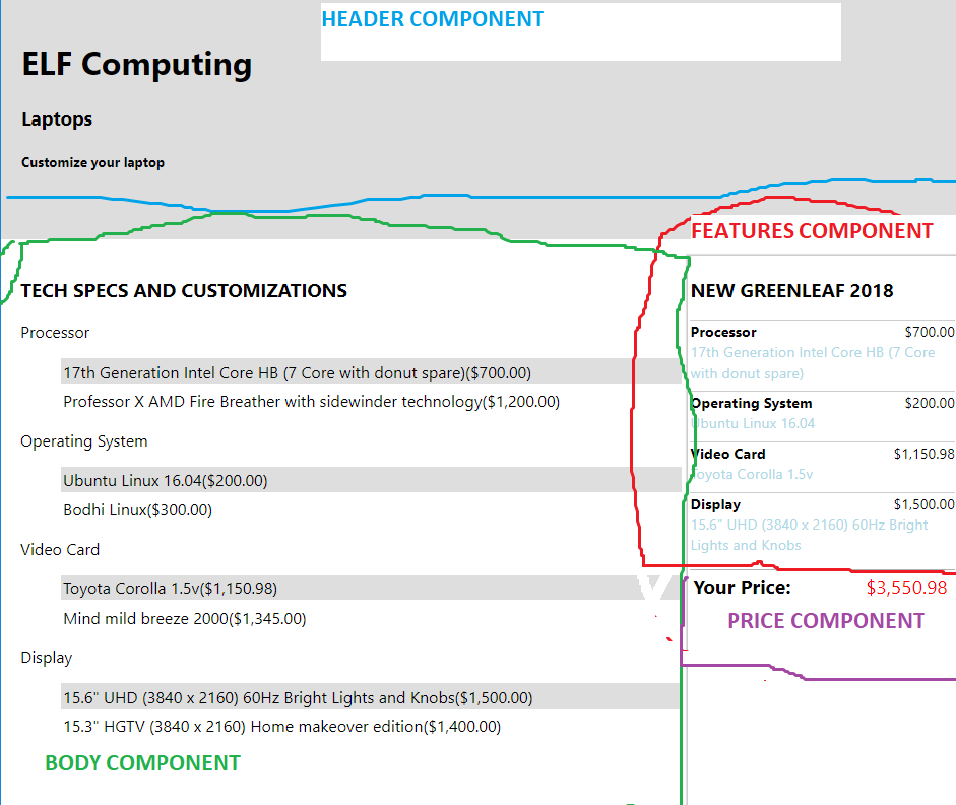
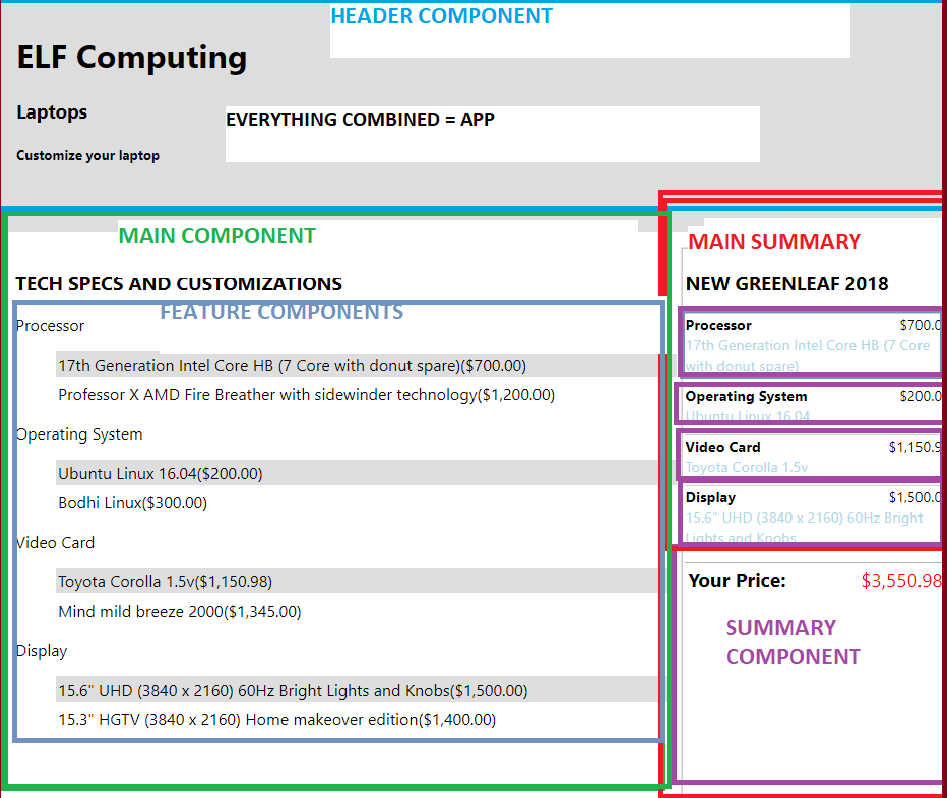
final updates

Changed region(s): [[0.0, 0.0, 1.0, 1.0]]

diff --git a/src/App.js b/src/App.js
@@ -1,5 +1,8 @@
 import React, { Component } from 'react';
 import './App.css';
+import SummaryComponent from "./SummaryComponent/SummaryComponent";
+import FeatureComponent from "./FeatureComponent/FeatureComponent";
+
 
 class App extends Component {
   constructor(props){
@@ -35,43 +38,7 @@ class App extends Component {
   }
 
   render() {
-    const summary = Object.keys(this.state.selected)
-          .map(key => <div className="summary__option" key={key}>
-            <div className="summary__option__label">{key}  </div>
-            <div className="summary__option__value">{this.state.selected[key].name}</div>
-            <div className="summary__option__cost">
-              { new Intl.NumberFormat('en-US', { style: 'currency', currency: 'USD'})
-                  .format(this.state.selected[key].cost) }
-            </div>
-        </div>)
-
-    const total = Object.keys(this.state.selected)
-          .reduce((acc, curr) => acc + this.state.selected[curr].cost, 0);    
-
-
-    const features = Object.keys(this.props.features)
-          .map(key => {
-            const options = this.props.features[key].map((item, index) => {
-              const selectedClass = item.name === this.state.selected[key].name ? 'feature__selected' : '';
-              const featureClass = 'feature__option ' + selectedClass;
-              return <li key={index} className="feature__item">
-                <div className={featureClass}
-                  
-                  onClick={e => this.updateFeature(key, item)}>
-                    { item.name }
-                    ({ new Intl.NumberFormat('en-US', { style: 'currency', currency: 'USD'})
-                      .format(item.cost) })
-                </div>
-              </li>
-            });
-
-            return <div className="feature" key={key}>
-              <div className="feature__name">{key}</div>
-              <ul className="feature__list">
-                { options }
-              </ul>
-            </div>
-          });      
+  
 
     return (
       <div className="App">
@@ -81,25 +48,16 @@ class App extends Component {
           <h5>Customize your laptop</h5>  
         </header>      
         <main>
-          <section className="main__form">
-            <h3>TECH SPECS AND CUSTOMIZATIONS</h3>
-            { features }
-          </section>
-          <section className="main__summary">
-            <h3>NEW GREENLEAF 2018</h3>
-            {summary}
-            <div className="summary__total">
-              <div className="summary__total__label">Your Price: </div>
-              <div className="summary__total__value">
-              { new Intl.NumberFormat('en-US', { style: 'currency', currency: 'USD'})
-                  .format(total) }
-              </div>
-            </div>
-          </section>
+          
+            <FeatureComponent features={this.props.features} selectedFeatures={this.state.selected} updateFeature={(feature, newValue) => this.updateFeature(feature, newValue)}/>
+        
+          
+            <SummaryComponent selectedFeatures= {this.state.selected}/>
+          
         </main>
       </div>
     );
   }
 }
 
-export default App;  
+export default App;

diff --git a/src/FeatureComponent/List.js b/src/FeatureComponent/List.js
@@ -1,0 +1,28 @@
+import React from "react";
+
+class List extends React.Component{
+
+    render(){
+        
+        return (
+
+            this.props.features[this.props.featureKey].map((item, index) => {
+                const selectedClass = item.name === this.props.selectedFeatures[this.props.featureKey].name ? 'feature__selected' : '';
+                const featureClass = 'feature__option ' + selectedClass;
+                return <li key={index} className="feature__item">
+                    <div className={featureClass}
+                    
+                    onClick={e => this.props.updateFeature(this.props.featureKey, item)}>
+                        { item.name }
+                        ({ new Intl.NumberFormat('en-US', { style: 'currency', currency: 'USD'})
+                        .format(item.cost) })
+                    </div>
+                </li>
+            })
+        )
+
+    }
+
+}
+
+export default List;

diff --git a/src/SummaryComponent/SummaryList.js b/src/SummaryComponent/SummaryList.js
@@ -1,0 +1,27 @@
+import React from "react";
+
+
+class SummaryList extends React.Component{
+
+
+    render() {
+
+        return (
+        
+        Object.keys(this.props.selectedFeatures)
+              .map(key => <div className="summary__option" key={key}>
+                <div className="summary__option__label">{key}  </div>
+                <div className="summary__option__value">{this.props.selectedFeatures[key].name}</div>
+                <div className="summary__option__cost">
+                  { new Intl.NumberFormat('en-US', { style: 'currency', currency: 'USD'})
+                      .format(this.props.selectedFeatures[key].cost) }
+                </div>
+            </div>)
+
+            
+        )
+
+    }
+}
+
+export default SummaryList;

diff --git a/src/FeatureComponent/FeatureComponent.js b/src/FeatureComponent/FeatureComponent.js
@@ -1,0 +1,31 @@
+import React from "react";
+import List from "./List";
+
+class FeatureComponent extends React.Component{
+
+    
+  render(){
+    
+    const featureList = Object.keys(this.props.features).map(key => {
+
+      return <div className="feature" key={key}>
+      <div className="feature__name">{key}</div>
+      <ul className="feature__list">
+        <List features={this.props.features} selectedFeatures={this.props.selectedFeatures} updateFeature={this.props.updateFeature} featureKey={key}/>
+      </ul>
+      </div>
+    })
+
+    return ( 
+      <section className="main__form">
+        <h3>TECH SPECS AND CUSTOMIZATIONS</h3>
+        {featureList}
+      </section>
+      
+    )
+  }
+
+
+}
+
+export default FeatureComponent;

diff --git a/src/SummaryComponent/Total.js b/src/SummaryComponent/Total.js
@@ -1,0 +1,22 @@
+import React from "react";
+
+function Total(props){
+
+
+    const total = Object.keys(props.selectedFeatures)
+          .reduce((acc, curr) => acc + props.selectedFeatures[curr].cost, 0); 
+
+    return (
+    
+        <div className="summary__total">
+        <div className="summary__total__label">Your Price: </div>
+        <div className="summary__total__value">
+        { new Intl.NumberFormat('en-US', { style: 'currency', currency: 'USD'})
+            .format(total) }
+        </div>
+        </div>
+    )
+
+}
+
+export default Total;

diff --git a/src/SummaryComponent/SummaryComponent.js b/src/SummaryComponent/SummaryComponent.js
@@ -1,0 +1,23 @@
+import React from "react";
+import SummaryList from "./SummaryList";
+import Total from "./Total";
+
+
+class SummaryComponent extends React.Component{
+
+
+    render() {
+
+        return (
+            <section className="main__summary">
+            <h3>NEW GREENLEAF 2018</h3>
+                <SummaryList selectedFeatures = {this.props.selectedFeatures}/>
+                <Total selectedFeatures= {this.props.selectedFeatures}/>
+            </section>
+            
+        )
+
+    }
+}
+
+export default SummaryComponent;
